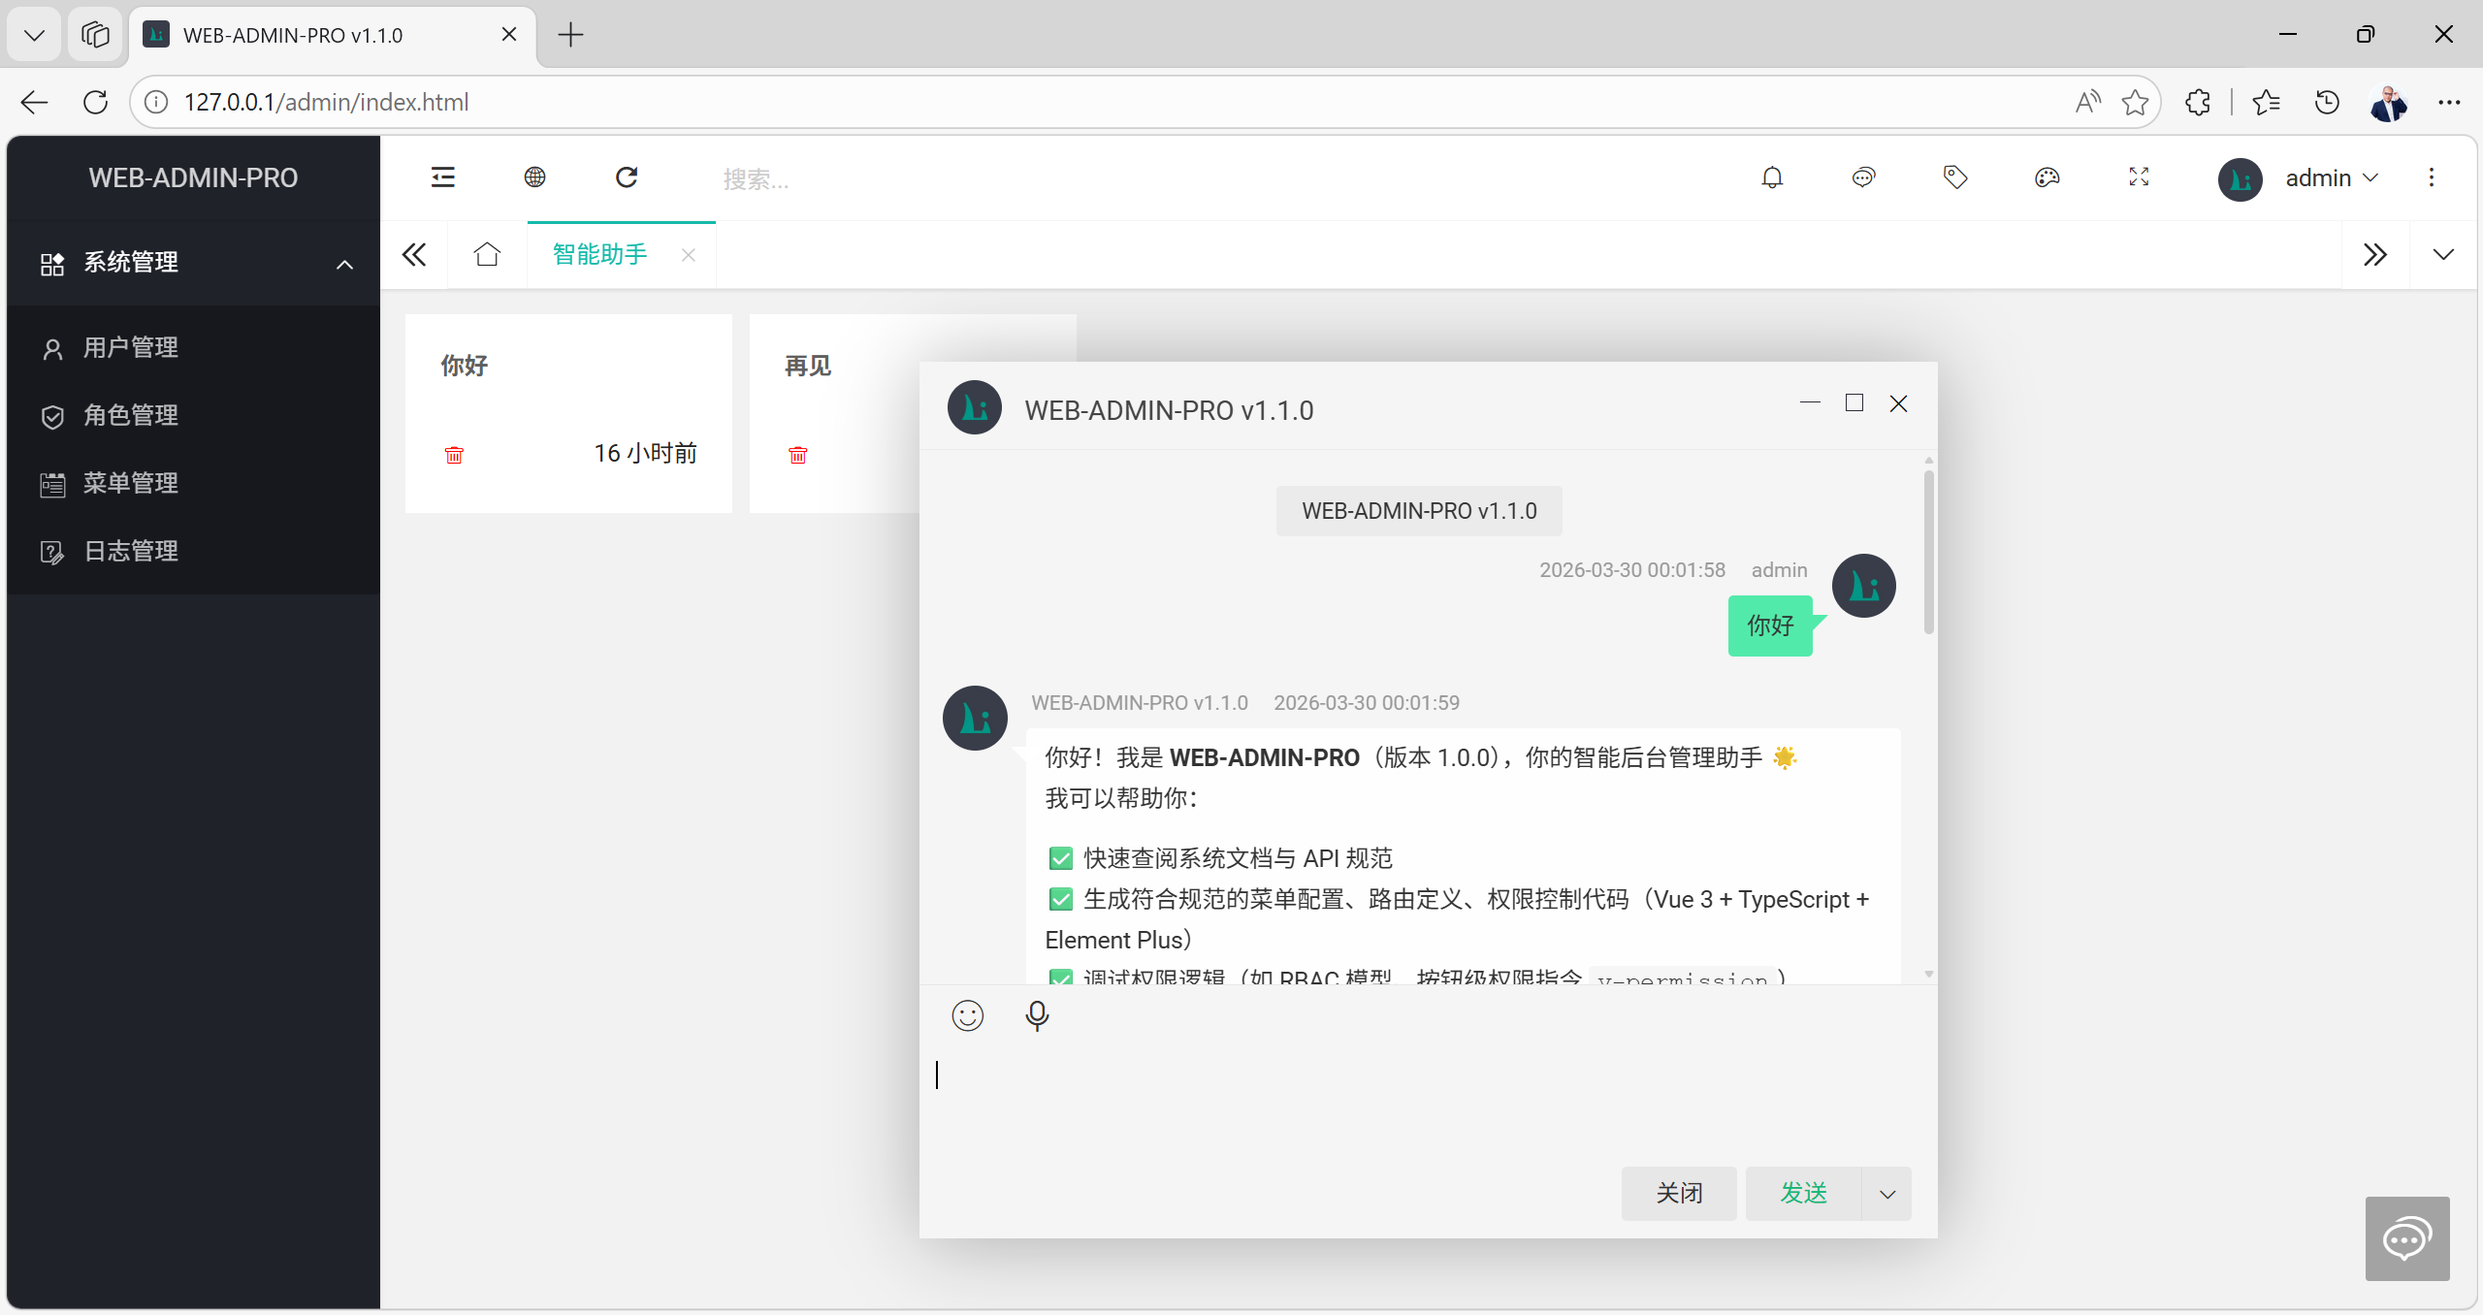
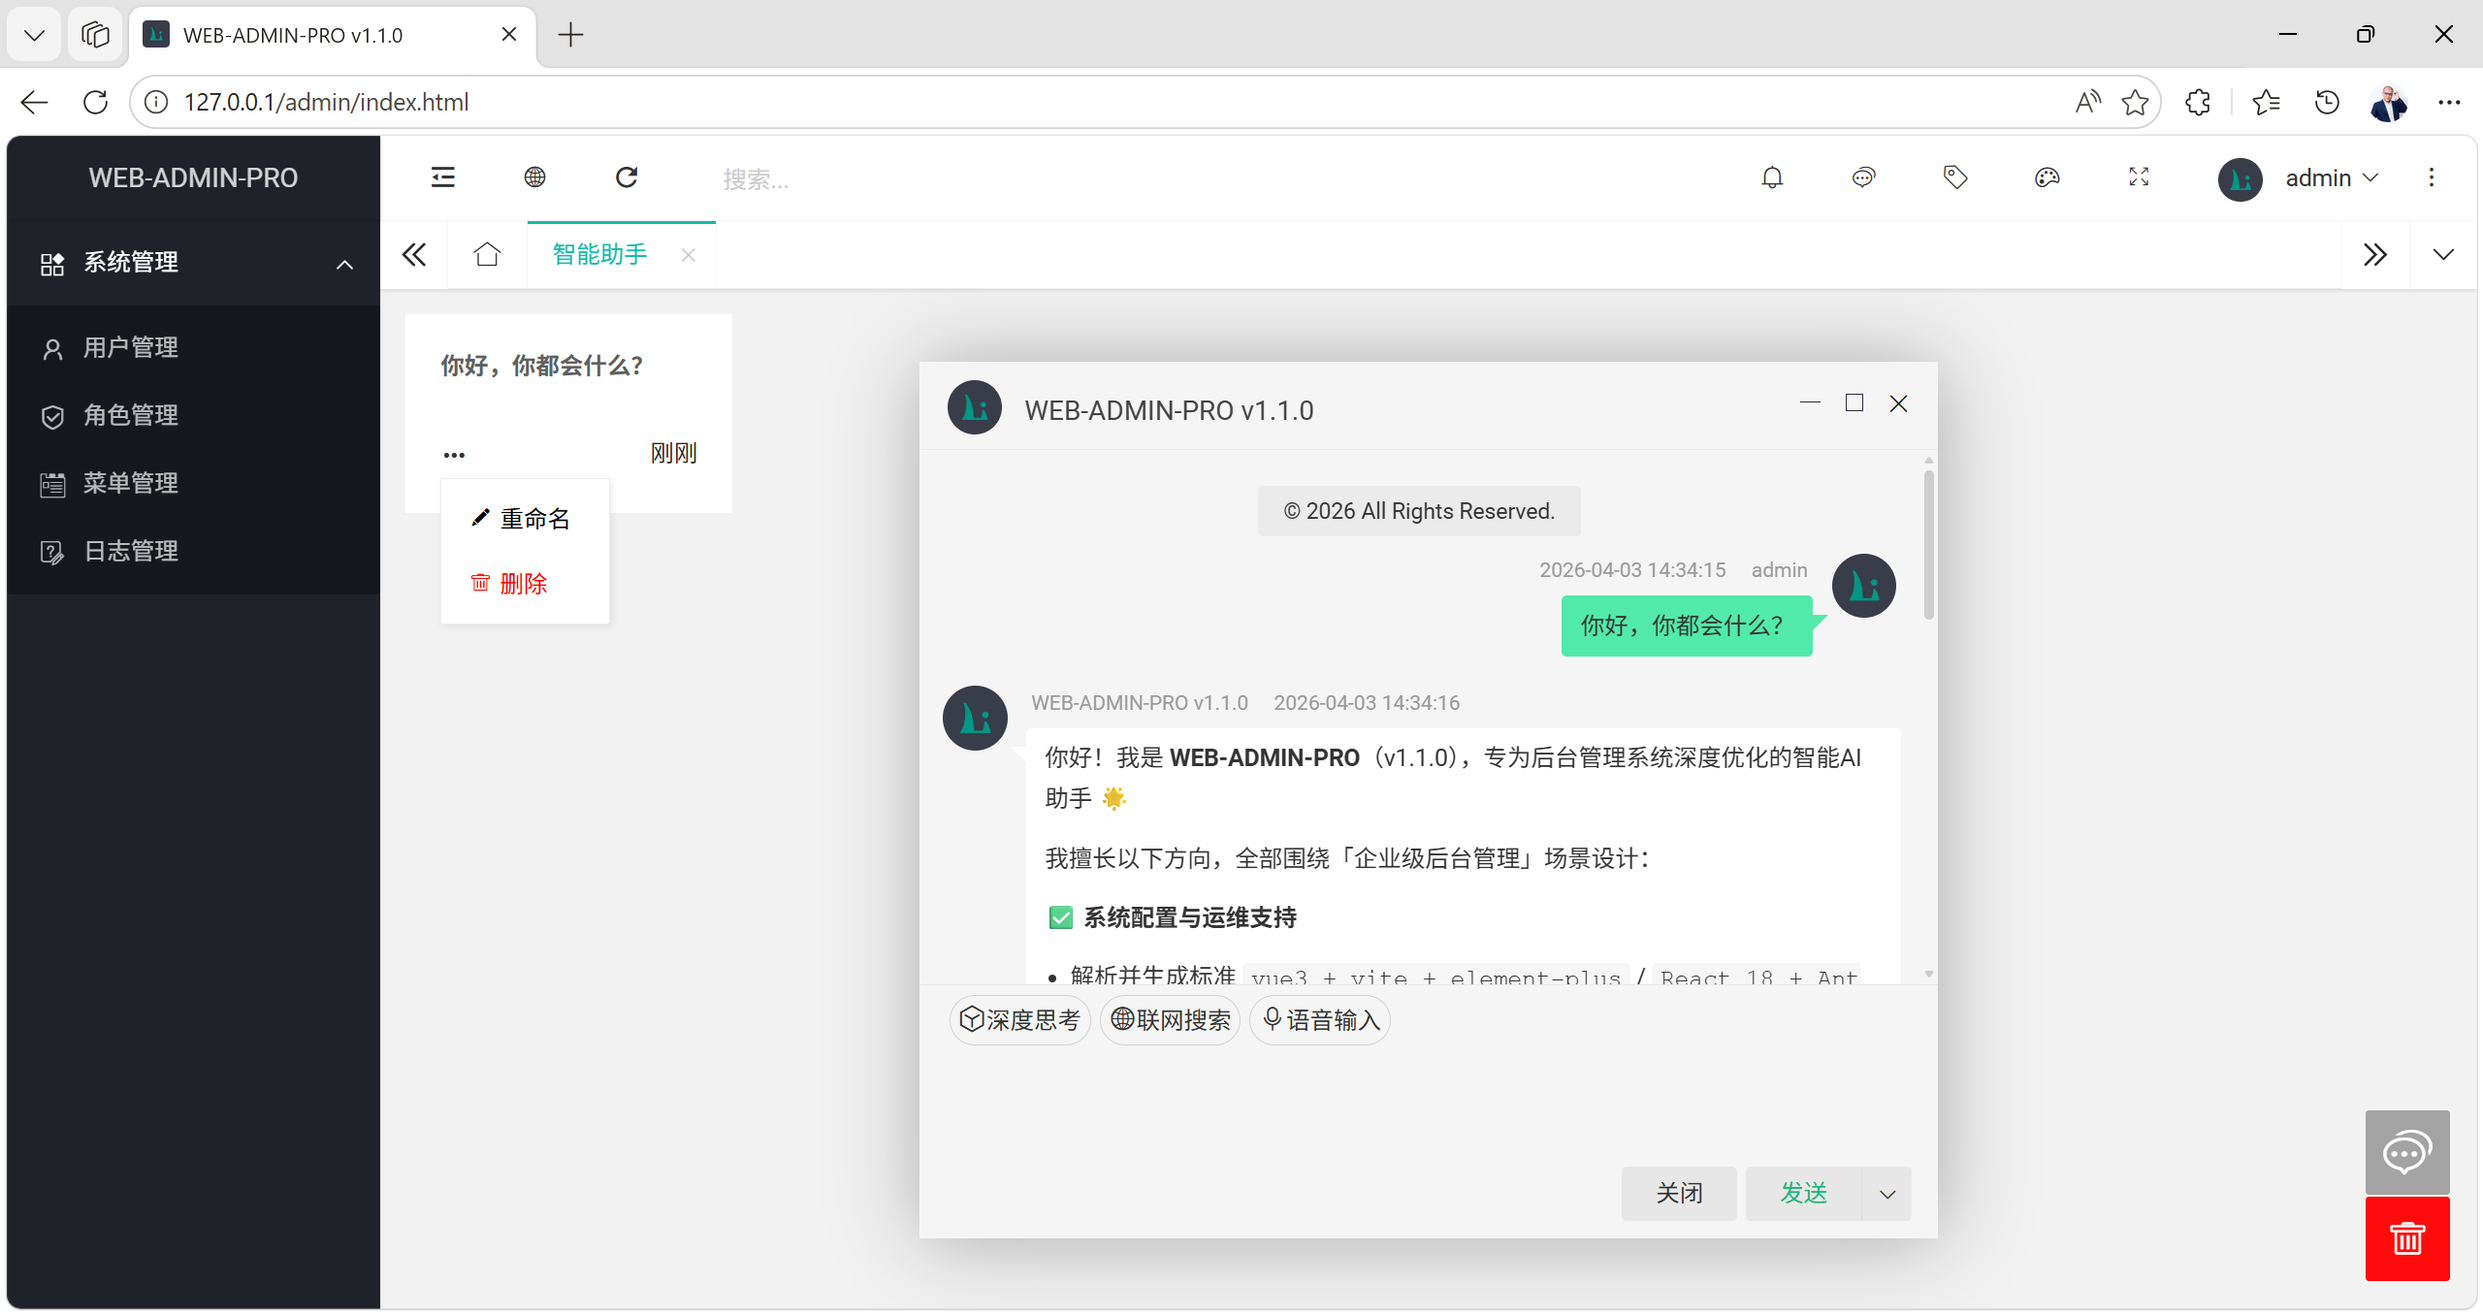
1、修改深度思考、联网搜索、语音输入样式 2、修复删除全部对话记录的Bug

diff --git a/src/main/resources/static/modules/chat.js b/src/main/resources/static/modules/chat.js
@@ -1,8 +1,12 @@
 layui.define(['layim', 'common'], function (exports) {
 
-    let enableThinking = layui.data('enable-thinking').enable
+    let abortController = null
+        , conversationId = layui.common.asUuid()
+        , periodThinking = 0
+        , enableThinking = layui.data('enable-thinking').enable
         , enableSearch = layui.data('enable-search').enable;
-    layui.form.on('checkbox(chat-switch)', function (data) {
+
+    layui.form.on('checkbox(chat-tools-switch)', function (data) {
         if (data.elem.name === 'enable-thinking') {
             enableThinking = data.elem.checked;
             layui.data('enable-thinking', {key: 'enable', value: enableThinking});
@@ -10,6 +14,15 @@ layui.define(['layim', 'common'], function (exports) {
         if (data.elem.name === 'enable-search') {
             enableSearch = data.elem.checked;
             layui.data('enable-search', {key: 'enable', value: enableSearch});
+        }
+        if (data.elem.name === 'mike') {
+            layui.chat.asMike({
+                done: function (text) {
+                    layui.$('textarea.layim-scrollbar').append(text);
+                }, complete: function () {
+                    data.elem.checked = false;
+                }
+            });
         }
     });
 
@@ -27,69 +40,16 @@ layui.define(['layim', 'common'], function (exports) {
     layui.layim.extendChatTools([{
         name: 'mike', title: '语音输入', icon: 'layui-icon-mike'
         , onClick: function (data) {
-            const SpeechRecognition = window.SpeechRecognition || window.webkitSpeechRecognition;
-            if (!SpeechRecognition) return layui.layer.msg('当前浏览器不支持语音识别');
-            const recognition = new SpeechRecognition();
-            recognition.lang = 'zh-CN';
-            recognition.continuous = true;
-            recognition.interimResults = true;
-            recognition.maxAlternatives = 1;
-            let loading;
-            recognition.onstart = function () {
-                loading = layui.layer.load(2, {
-                    time: 0, shade: 0.1, shadeClose: true
-                    , content: `<span style="position:absolute;left:-35px;width:150px;">语音识别中...<span>`
-                    , end: function () {
-                        recognition.stop();
-                    }
-                });
-            }
-            recognition.onend = function () {
-                layui.layer.close(loading);
-            }
-            recognition.onerror = function (event) {
-                layui.layer.close(loading);
-                layui.layer.msg(`语音识别错误：${event.error}`);
-            }
-            recognition.onresult = function (event) {
-                data.insert(Array.from(event.results).map(result => result[0].transcript).join(''));
-            }
-            recognition.start();
-        }
-    }, {
-        name: 'upload', title: '上传附件', icon: 'layui-icon-upload-drag'
-        , onClick: function (data) {
-            layui.layer.msg('敬请期待！');
-        }
-    }, {
-        name: 'more', title: '更多', icon: 'layui-icon-more'
-        , onClick: function (data) {
-            layui.dropdown.render({
-                elem: data.elem, show: true
-                , content: `
-                <div class="layui-form layui-padding-2">
-                  <input ${enableThinking ? 'checked' : ''} type="checkbox"
-                   name="enable-thinking" value="深度思考" lay-skin="none" lay-filter="chat-switch">
-                  <div lay-checkbox class="chat-skin-tag layui-badge">
-                    <i class="layui-icon layui-icon-component"></i> 深度思考
-                  </div>
-                  <input ${enableSearch ? 'checked' : ''} type="checkbox"
-                   name="enable-search" value="联网搜索" lay-skin="none" lay-filter="chat-switch">
-                  <div lay-checkbox class="chat-skin-tag layui-badge">
-                    <i class="layui-icon layui-icon-website"></i> 联网搜索
-                  </div>
-                </div>
-                `
-                , ready: function () {
-                    layui.form.render();
+            layui.chat.asMike({
+                done: function (text) {
+                    data.insert(text);
                 }
             });
         }
     }]);
 
     exports('chat', {
-        abortController: null, conversationId: layui.common.asUuid()
-        , asReload: function () {
+        asReload: function () {
             layui.$('#chat-flow').html('');
             layui.flow.reload('chat-flow');
         }
@@ -126,11 +86,45 @@ layui.define(['layim', 'common'], function (exports) {
         , asContentParser: function (data) {
             const md = markdownit({typographer: true, linkify: true, breaks: true});
             return md.render(data).replaceAll('<table>', '<table class="layui-table" lay-size="sm">')
-                .replaceAll('&lt;think&gt;', '<fieldset class="layui-elem-field">' +
-                    '<legend>深度思考</legend><div class="layui-field-box">')
-                .replaceAll('&lt;/think&gt;', '</div></fieldset>');
+                .replaceAll(layui.util.escape('<think>'), `
+                  <div class="layui-timeline">
+                    <div class="layui-timeline-item">
+                      <i class="layui-icon layui-timeline-axis layui-icon-component"></i>
+                      <div class="layui-timeline-content layui-text">
+                        <h6 class="layui-timeline-title">深度思考</h6>
+                `)
+                .replaceAll(layui.util.escape('</think>'), `
+                      </div>
+                    </div>
+                    <div class="layui-timeline-item">
+                      <i class="layui-icon layui-timeline-axis layui-icon-component"></i>
+                      <div class="layui-timeline-content layui-text">
+                        <h6 class="layui-timeline-title">已思考（用时${(periodThinking / 1000).toFixed(2)}秒）</h6>
+                      </div>
+                    </div>
+                  </div>
+                `);
         }
         , asChatInit: function (data) {
+            layui.$(data.elem).find('.layim-chat-tool').empty().html(`
+                <span class="layui-form">
+                  <input ${enableThinking ? 'checked' : ''} type="checkbox"
+                   name="enable-thinking" value="深度思考" lay-skin="none" lay-filter="chat-tools-switch">
+                  <div lay-checkbox class="chat-skin-tag layui-badge">
+                    <i class="layui-icon layui-icon-component"></i>深度思考
+                  </div>
+                  <input ${enableSearch ? 'checked' : ''} type="checkbox"
+                   name="enable-search" value="联网搜索" lay-skin="none" lay-filter="chat-tools-switch">
+                  <div lay-checkbox class="chat-skin-tag layui-badge">
+                    <i class="layui-icon layui-icon-website"></i>联网搜索
+                  </div>
+                  <input type="checkbox" name="mike" lay-skin="none" lay-filter="chat-tools-switch">
+                  <div lay-checkbox class="chat-skin-tag layui-badge">
+                    <i class="layui-icon layui-icon-mike"></i>语音输入
+                  </div>
+                </span>
+            `);
+            layui.form.render();
             layui.layim.getMessage({
                 system: true
                 , id: data.data.id
@@ -143,16 +137,16 @@ layui.define(['layim', 'common'], function (exports) {
             const user = data.user, receiver = data.receiver;
             if (receiver.type === 'ai') {
                 let thinking = false, content = [];
-                this.abortController = new AbortController();
+                abortController = new AbortController();
                 SSE.fetchEventSource(`${config.base}ai/chat/completions`, {
                     method: 'POST', headers: {'Content-Type': 'application/json'}
                     , body: JSON.stringify({
-                        conversationId: this.conversationId
+                        conversationId: conversationId
                         , question: user.content
                         , enableThinking: enableThinking
                         , enableSearch: enableSearch
                     })
-                    , signal: this.abortController.signal
+                    , signal: abortController.signal
                     , onopen: function (response) {
                         if (!response.ok) throw new Error(`URL ${response.status} ${response.statusText}`);
                     }
@@ -163,6 +157,7 @@ layui.define(['layim', 'common'], function (exports) {
                         if (layui.$.trim(reasoningContent)) {
                             if (thinking === false) {
                                 thinking = true;
+                                periodThinking = Date.now();
                                 content.push('\n<think>\n');
                             }
                             content.push(reasoningContent);
@@ -170,6 +165,7 @@ layui.define(['layim', 'common'], function (exports) {
                         if (layui.$.trim(text)) {
                             if (thinking === true) {
                                 thinking = false;
+                                periodThinking = Date.now() - periodThinking;
                                 content.push('\n</think>\n');
                             }
                             content.push(text);
@@ -192,7 +188,7 @@ layui.define(['layim', 'common'], function (exports) {
             const user = data.user, receiver = data.receiver;
             return new Promise((resolve, reject) => {
                 const messages = [];
-                layui.common.req(`${config.base}ai/chat/${this.conversationId}`, 'GET', null, {
+                layui.common.req(`${config.base}ai/chat/${conversationId}`, 'GET', null, {
                     done: function (data) {
                         data.data.forEach(function (data) {
                             if (data.type === 'USER') {
@@ -208,7 +204,7 @@ layui.define(['layim', 'common'], function (exports) {
             });
         }
         , asChat: function (id) {
-            this.conversationId = id || layui.common.asUuid();
+            conversationId = id || layui.common.asUuid();
             layui.layim.chat({
                 type: 'ai'
                 , id: config.title
@@ -218,8 +214,8 @@ layui.define(['layim', 'common'], function (exports) {
                 , enableLocalChatlog: false
                 , layer: {
                     end: () => {
-                        if (this.abortController) this.abortController.abort();
-                        this.conversationId = layui.common.asUuid();
+                        if (abortController) abortController.abort();
+                        conversationId = layui.common.asUuid();
                         this.asReload();
                     }
                 }
@@ -270,6 +266,37 @@ layui.define(['layim', 'common'], function (exports) {
                 }
             });
         }
+        , asMike: function (callback) {
+            const SpeechRecognition = window.SpeechRecognition || window.webkitSpeechRecognition;
+            if (!SpeechRecognition) return layui.layer.msg('当前浏览器不支持语音识别');
+            const recognition = new SpeechRecognition();
+            recognition.lang = 'zh-CN';
+            recognition.continuous = true;
+            recognition.interimResults = true;
+            recognition.maxAlternatives = 1;
+            let loading;
+            recognition.onstart = function () {
+                loading = layui.layer.load(2, {
+                    time: 0, shade: 0.1, shadeClose: true
+                    , content: `<span style="position:absolute;left:-35px;width:150px;">语音识别中...<span>`
+                    , end: function () {
+                        recognition.stop();
+                        callback && typeof callback.complete === 'function' && callback.complete();
+                    }
+                });
+            }
+            recognition.onend = function () {
+                layui.layer.close(loading);
+            }
+            recognition.onerror = function (event) {
+                layui.layer.close(loading);
+                layui.layer.msg(`语音识别错误：${event.error}`);
+            }
+            recognition.onresult = function (event) {
+                const text = Array.from(event.results).map(result => result[0].transcript).join('');
+                callback && typeof callback.done === 'function' && callback.done(text);
+            }
+            recognition.start();
+        }
     });
-})
-;
+});

diff --git a/src/main/resources/static/style/ai-chat.css b/src/main/resources/static/style/ai-chat.css
@@ -1,15 +1,20 @@
+.layui-form-radio,
+.layui-form-checkbox {
+    background-color: transparent;
+}
+
 .layui-form-radio > .chat-skin-tag,
 .layui-form-checkbox > .chat-skin-tag {
     color: #000;
     border: 1px solid #d2d2d2;
     background-color: #fff;
-    border-radius: 30px;
+    border-radius: 100px;
     display: table;
     padding: 5px;
 }
 
-.layui-form-checkbox:hover > .chat-skin-tag,
-.layui-form-radio:hover > .chat-skin-tag {
+.layui-form-radio:hover > .chat-skin-tag,
+.layui-form-checkbox:hover > .chat-skin-tag {
     color: #000;
     border: 1px solid #d2d2d2;
     background-color: #f7f7f7;

diff --git a/src/main/java/com/admin/web/service/SysUserChatService.java b/src/main/java/com/admin/web/service/SysUserChatService.java
@@ -63,13 +63,18 @@ public class SysUserChatService {
     public void delete(SysUser sysUser, String conversationId) {
         if ("all".equalsIgnoreCase(conversationId)) {
             this.sysUserChatDao.findByUsername(sysUser.getUsername()).forEach(sysUserChat ->
-                    this.sysUserChatDao.deleteByConversationId(sysUserChat.getConversationId()));
+                    this.deleteByConversationId(sysUserChat.getConversationId()));
         } else {
             Optional.ofNullable(this.sysUserChatDao.findByUsernameAndConversationId(sysUser.getUsername(), conversationId))
                     .orElseThrow(() -> new ServerResponseException(ResponseCode.NOT_FOUND));
-            this.sysUserChatDao.deleteByConversationId(conversationId);
-            this.chatMemoryDao.deleteByConversationId(conversationId);
+            this.deleteByConversationId(conversationId);
         }
+    }
+
+    @Transactional(rollbackFor = Exception.class)
+    public void deleteByConversationId(String conversationId) {
+        this.sysUserChatDao.deleteByConversationId(conversationId);
+        this.chatMemoryDao.deleteByConversationId(conversationId);
     }
 
 }
